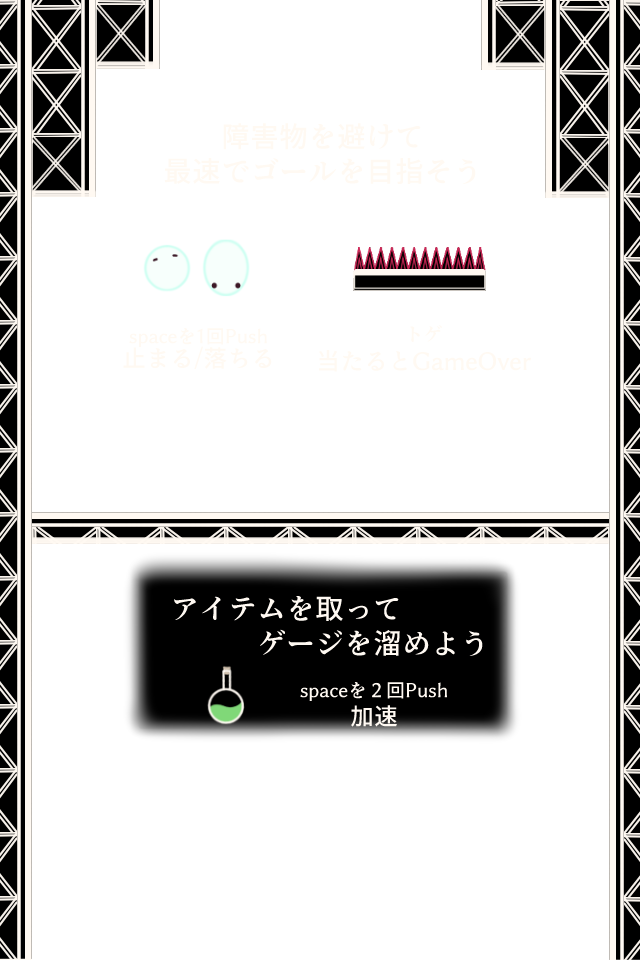
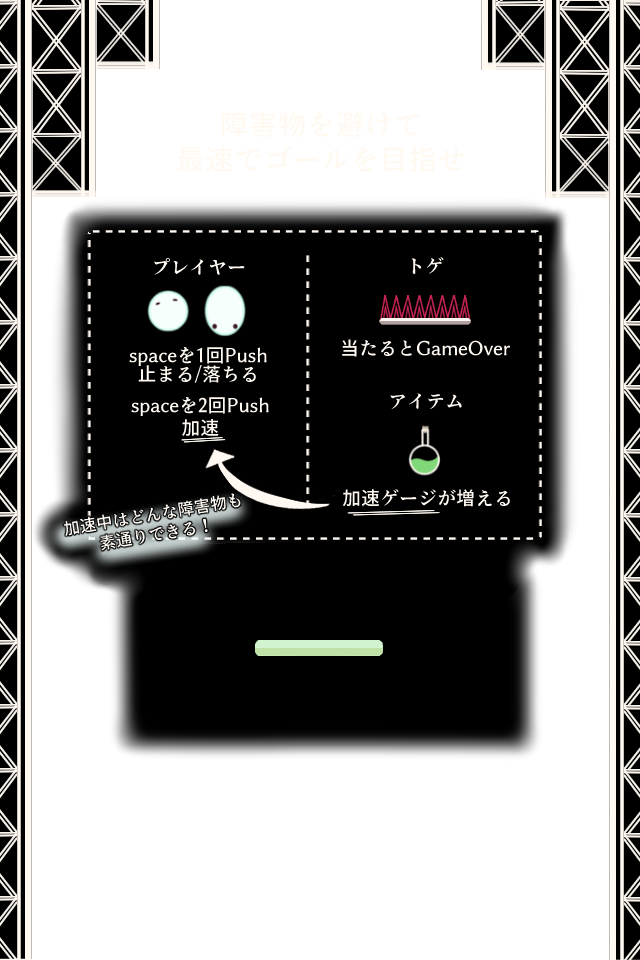
1101

diff --git a/TemplateGame/Anime.cs b/TemplateGame/Anime.cs
@@ -23,13 +23,13 @@ namespace OneButton
 
         const int TIME_LIGHT = 40;
         const int HP_LIGHT = 30;
-        const int MAX_LIGHT = 3;
+        const int MAX_LIGHT = 7;
         const int MIN_LIGHT = 1;
         const float SPEED_LIGHT = 0.4f;
 
-        Texture2D player, enemy, maru, lights;
+        Texture2D player, maru, lights;
+        Color[] color = new Color[2];
 
-        int enemy_x, enemy_y;
 
         enum State { drop, fly, stop, accele, dead }
         enum tex { dropPre, drop, flyPre, fly, stop, dead }
@@ -46,7 +46,6 @@ namespace OneButton
         public bool Dead { get { return dead; } }
         public void Ini()
         {
-            enemy_x = 0; enemy_y = 0;
             x = 0; y = 0;
             for (int i = 0; i < 2; i++) scale[i] = 1.0f;  
             sca[(int)name.chara] = 0.04f;  
@@ -60,6 +59,7 @@ namespace OneButton
             hp.Clear();
             ppx.Clear();
             ppy.Clear();
+            for(int i = 0; i < 2; i++)color[i] = Color.White;
         }
 
         public void Load(ContentManager content)
@@ -71,7 +71,6 @@ namespace OneButton
         public void Update(int state, int statePre, Vector2 playerPos, int sc, bool accel, bool accelePre)  
         {
             Move_X();
-            
             Lights_Dead(playerPos, sc);
             if (state == (int)State.dead) Lights_Last();
             else
@@ -80,6 +79,7 @@ namespace OneButton
                 Lights_Emission();
                 Lights_Bone(playerPos, accel);
             }
+            Accel_Anime(accel);
         }
         public void Pre(int state, int statePre, bool accele, bool accelePre)
         {
@@ -130,7 +130,6 @@ namespace OneButton
                 scale[(int)name.chara] += sca[(int)name.chara];
             }
             else scale[(int)name.chara] = 1;
-            
         }
         public void Move_X()
         {
@@ -167,6 +166,7 @@ namespace OneButton
             y = (int)tex.dead;
             x = 0;
         }
+
         public void Lights_Bone(Vector2 playerPos, bool accel)  
         {
             if (accel) Pnum = MAX_LIGHT;
@@ -199,13 +199,25 @@ namespace OneButton
                 }
             }
         }
+        public void Accel_Anime(bool accel)
+        {
+            if (accel)
+            {
+                color[(int)name.chara] = Color.LightGoldenrodYellow;
+                color[(int)name.lights] = Color.Yellow;
+            }
+            else
+            {
+                for(int i =0; i< 2; i++)color[i] = Color.White;
+            }
+        }
         public void Draw(SpriteBatch sb, Vector2 pos, int sc, int state)
         {
             if (!dead)
             {
                 for (int i = 0; i < this.pos.Count; i++) sb.Draw(maru, new Vector2(this.pos[i].X + ppx[i], this.pos[i].Y - sc - ppy[i]), Color.White);//パーティクル
-                sb.Draw(lights, new Vector2(pos.X - RUDIOS - SIZE_PLAYER / 2, pos.Y - RUDIOS - SIZE_PLAYER / 2 - sc) + new Vector2(64, 64), new Rectangle(0, 0, 128, 128), Color.White * alpha_Lights, 0.0f, new Vector2(64, 64), scale[(int)name.lights], SpriteEffects.None, 1.0f);
-                sb.Draw(player, new Vector2(pos.X - RUDIOS, pos.Y - RUDIOS - sc) + new Vector2(SIZE_PLAYER / 2, SIZE_PLAYER / 2), new Rectangle(SIZE_PLAYER * x, SIZE_PLAYER * y, SIZE_PLAYER, SIZE_PLAYER), Color.White, 0.0f, new Vector2(SIZE_PLAYER / 2, SIZE_PLAYER / 2), scale[(int)name.chara], SpriteEffects.None, 1.0f);//動作確認
+                sb.Draw(lights, new Vector2(pos.X - RUDIOS - SIZE_PLAYER / 2, pos.Y - RUDIOS - SIZE_PLAYER / 2 - sc) + new Vector2(64, 64), new Rectangle(0, 0, 128, 128), color[(int)name.lights] * alpha_Lights, 0.0f, new Vector2(64, 64), scale[(int)name.lights], SpriteEffects.None, 1.0f);
+                sb.Draw(player, new Vector2(pos.X - RUDIOS, pos.Y - RUDIOS - sc) + new Vector2(SIZE_PLAYER / 2, SIZE_PLAYER / 2), new Rectangle(SIZE_PLAYER * x, SIZE_PLAYER * y, SIZE_PLAYER, SIZE_PLAYER), color[(int)name.chara], 0.0f, new Vector2(SIZE_PLAYER / 2, SIZE_PLAYER / 2), scale[(int)name.chara], SpriteEffects.None, 1.0f);//動作確認
             }
         }
     }

diff --git a/TemplateGame/Bar.cs b/TemplateGame/Bar.cs
@@ -5,7 +5,6 @@ using System.Linq;
 using System.Text;
 using Microsoft.Xna.Framework.Graphics;
 using Microsoft.Xna.Framework.Content;
-
 using System.Threading.Tasks;
 
 namespace OneButton
@@ -16,38 +15,44 @@ namespace OneButton
         readonly Vector2 barPos = new Vector2(8, 32);
         readonly Vector2 barSize = new Vector2(320, 32);
         const int ITEM_MAX = 5;
-        int ITEM_UP;
-        int nowItem;
-        const int AC_SPEED=2;
+        int ITEM_UP; //一回の回復量
+        const int AC_SPEED = 2; //ゲージ消費量
         int nowBar;
+
         public Bar() { Init(); }
 
         public void Init()
         {
-            nowItem = 0;
-            ITEM_UP = (int)barSize.X / ITEM_MAX;
-            nowBar = nowItem * ITEM_UP;
+            nowBar = 0;
+            ITEM_UP = (int)barSize.X / ITEM_MAX; //最大アイテム数から1回の回復量を計算
         }
         public void Load(ContentManager c)
         {
             bar = c.Load<Texture2D>("gage");
         }
-        public void GetItem()
+        public bool GetItem() 
         {
-            if (nowItem < ITEM_MAX)
-                nowItem++;
-            nowBar += ITEM_UP;
+            if (nowBar > barSize.X) return false; //最初から超えていたら上げない
+
+            int nextUp = nowBar + ITEM_UP;
+            //足して最大値を超えなければ普通に+
+            //超えるなら最大値に合わせる
+            if (nextUp <= barSize.X)
+                nowBar = nextUp;
+            else if (nextUp > barSize.X)
+                nowBar = (int)barSize.X;
+            return true;
         }
         public bool Accele()
         {
             if (nowBar <= 0) return false;
-            nowBar -=AC_SPEED;
+            nowBar -= AC_SPEED;
             return true;
         }
 
         public void Draw(SpriteBatch sb)
         {
-            sb.Draw(bar, new Rectangle((int)barPos.X, (int)barPos.Y,nowBar, (int)barSize.Y), Color.Wheat);
+            sb.Draw(bar, new Rectangle((int)barPos.X, (int)barPos.Y, nowBar, (int)barSize.Y), Color.Wheat);
         }
     }
 }

diff --git a/TemplateGame/UI.cs b/TemplateGame/UI.cs
@@ -64,7 +64,7 @@ namespace OneButton
         }
         public void Scroll(int sc)
         {
-            for (int i = 0; i < 2; i++) if (pos[i].Y - sc <= -wall.Height) pos[i].Y = sc + wall.Height;
+            for (int i = 0; i < 2; i++) if (pos[i].Y - sc <= -size.Height) pos[i].Y = sc + size.Height;
         }
         public bool Scene_Change(bool button)
         {
@@ -130,7 +130,7 @@ namespace OneButton
             }
             if (!tut)
             {
-                if (player.Y < SIZE*7) player.Y += SPEED;
+                if (player.Y < SIZE * 9) player.Y += SPEED;
                 else y = 0;
             }
             else if (y == 2) player.Y += SPEED;

diff --git a/TemplateGame/Player.cs b/TemplateGame/Player.cs
@@ -72,7 +72,7 @@ namespace OneButton
         public void KeyPushMove(Key key, Func<bool> Accele,SoundEffect move,SoundEffect high)
         {
             accelePre = accele;
-            if (key.TwoPush)
+            if (key.TwoPush&& state != State.stop)
             {
                 accele = true;
             }
